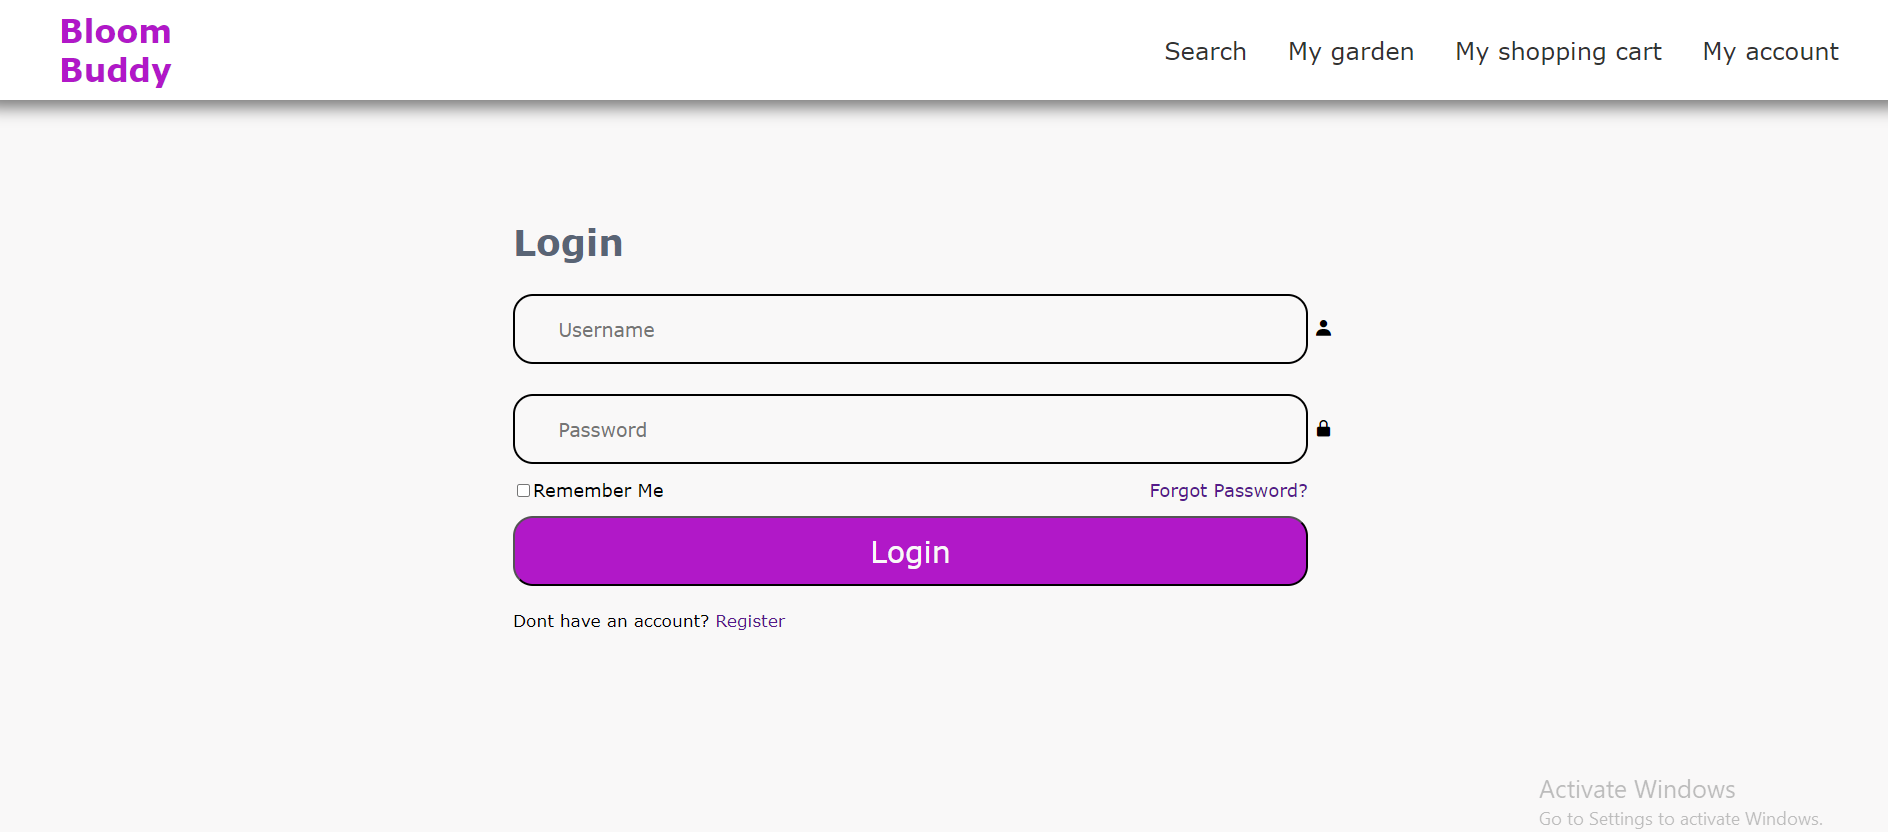
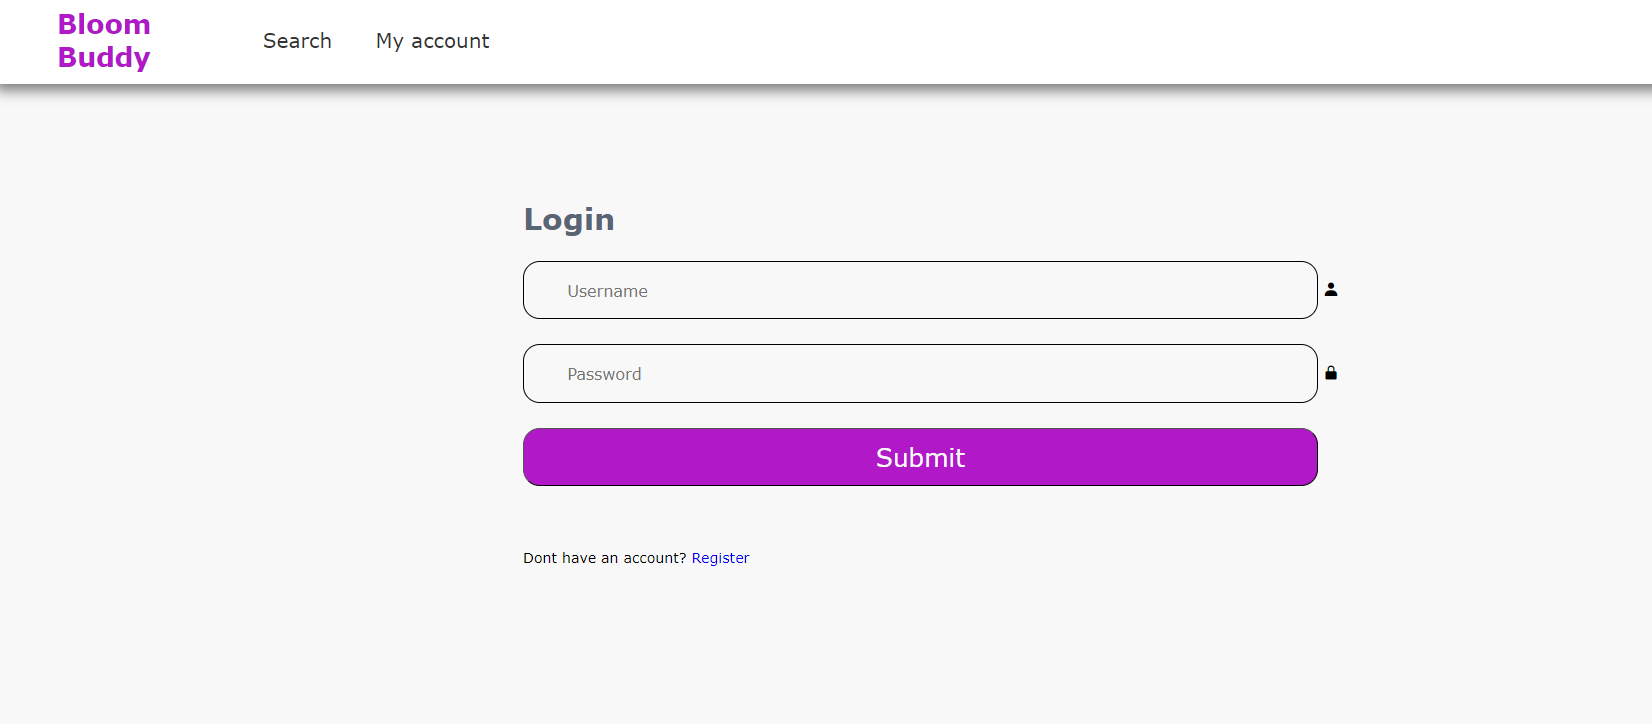
some bugs solved

diff --git a/Report.html b/Report.html
@@ -218,7 +218,6 @@
     <img src="resources/img/Report/login.png" alt="" style={width:50%}>
     <div>
       <p>This is the page used to log into an user's account. The required fields for logging in are the username and the password. There is also a checkbox for the user to specify that their credentials should be stored locally.</p>
-      <p>In case the user forgot their password, they can click on the "Forgot password" link, from where they can reset the forgotten password.</p>
       <p>In case the user is not regiestered, they can click on the "Register" link, which will redirect them to the signup page.</p>
     </div>
   </div>
@@ -231,13 +230,6 @@
     <p>This is the page used to create an user account. The required fields are the username, the fullname, email, the password and a field for confirming the password. The email and the username must uniquely identify a user, so you cannot create multiple accounts with the same email address or the same username.</p>
   </div>
 
-  <h4>
-    Password reset page
-  </h4>
-  <div class="interface-item">
-    <img src="resources/img/Report/passwordReset.png" alt="" style={width:50%} >
-    <p>This page can be used in order to reset your password, in case you forgot it. The required field is the email address associated with your account. After that, you will receive an email from where you can input your new password that you will use for logging in.</p>
-  </div>
 
   <h4>
     My account
@@ -249,11 +241,11 @@
   </div>
 
   <h4>
-    My garden
+    Vendor Home Page/My garden
   </h4>
   <div class="interface-item">
     <img src="resources/img/Report/myGarden.png" alt="" style={width:50%} >
-    <p>This page can be used to check the current status of your planted flowers, and information about the weather in the environment where the plants are growing. You can check each item's preferred environment and the current environment by clicking on their attached button.
+    <p>This page is accessible to the vendor, and can be used to check the current status of your planted flowers.  You can check each item's preferred environment by clicking on their attached button.
       The user can also see the products which they offer for sale on this page.
     </p>
   </div>
@@ -263,7 +255,7 @@
   </h4>
   <div class="interface-item">
     <img src="resources/img/Report/shoppingCart.png" alt="" style={width:50%} >
-    <p>You can use this page in order to finish your purchase. There, you can review the total payment for buying the added flowers.</p>
+    <p>You can use this page in order to finish your purchase. There, you can review the total payment for buying the added flowers. Once an order is placed, an email is sent to the email address of the user, which states the items purchased, and the total price to pay for them.</p>
   </div>
 
   <h4>
@@ -291,6 +283,25 @@
       </p>
     </div>
   </div>
+
+
+
+
+  <h4>
+    Administration Panel
+  </h4>
+
+  <div class="interface-item">
+    <img src="resources/img/Report/admin.png" alt="" style={width:50%}  >
+    <div>
+      <p>
+        This page is the home page, in the case when the autheticated user is the admin. This page contains 2 panels. One panel is responsible for managing the users that have created an account on the website, and the second panel is dedicated to managing the flowers which have been created on the website.
+      </p>
+    </div>
+  </div>
+
+
+
 
   <h3 id="software-interfaces"> 3.1 Software Interfaces  </h3>
   <h3 id="communication-interfaces"> 3.1 Communication Interfaces  </h3>
@@ -339,9 +350,33 @@
   <h3 id="backend-stage">
     4.3 Back-End Development stage
   </h3>
+  <h3 id="database">
+    4.3.1 Database
+  </h3>
   <p>
-  .
+  For this project, we have used MongoDB as the database. Unlike Oracle, Postgres or MySql, MongoDB is a non-relational database, which stores data as documents rather than tables.
+    We have decided to use this specific database manager, because we were interested in learning how to work with a new type of databases, as we have worked with relational databases at 3 other courses during the last semesters.
+    In order to access and use the database via node.js, we have used the Mongoose library.
+    In our MongoDB database, we have 3 collections: users/products and notifications. Their names are suggestive, regarding the data that is stored inside them.
   </p>
+  <figure>
+    <img src="resources/img/Report/backEnd/dataBase.png" alt="" style={width:50%}  >
+    <figcaption>Figure 4: An overview of the MongoDB database (the 'products' collection).  </figcaption>
+  </figure>
+
+
+
+  <h3 id="Controllers">
+    4.3.1 Controllers
+  </h3>
+  <p>
+    The application server, had
+  </p>
+  <figure>
+    <img src="resources/img/Report/backEnd/dataBase.png" alt="" style={width:50%}  >
+    <figcaption>Figure 4: An overview of the MongoDB database (the 'products' collection).  </figcaption>
+  </figure>
+
 
 </section>
 
@@ -357,19 +392,16 @@
   <h3>5.2 Sign Up</h3>
   <p>In order to sign up, a client who is not already a registered user must navigate to the Sign Up page and introduce the following details: email address, full name, username and password. Afterwards, they will receive an email asking them to confirm their address. </p>
 
-  <h3>5.3 Change password</h3>
-  <p>For security reasons, the database does not store the passwords of the users. Instead, the user who forgot their password and can no longer access their account must enter their email address in the input field and await an email that will provide them with a link to introduce a new password.</p>
-
-  <h3>5.4 Follow the development of flowers</h3>
+  <h3>5.3 Follow the development of flowers</h3>
   <p>In order to do this, the user who is looking to sell flowers must go to the 'My Garden' page on the website and check the section labelled ... </p>
 
-  <h3>5.5 Buy flowers</h3>
+  <h3>5.4 Buy flowers</h3>
   <p>In order to buy a flower, the logged in user must first select the flower that they wish to buy, then click the 'Add to cart ' button on the product page, or the shopping cart item next to the flower. They will then be redirected to their shopping, where they will be able to see all the products they have added to their basket. There, they will be able to complete their order and will be redirected to the payment page.</p>
 
-  <h3>5.6 Sell flowers</h3>
+  <h3>5.5 Sell flowers</h3>
   <p>In order to sell a flower, the logged in user must go to the specific form page and input the required information about the product he's about to auction. These range from basic properties like name, price and description to more specific information, such as optimal conditions for growing or indexing data, such as season of plants. Upon clicling submit, the user will be redirected to the product page of the plant, displayed for sale. </p>
 
-  <h3>5.7 Receive notifications about your flowers</h3>
+  <h3>5.6 Receive notifications about your flowers</h3>
   <p>
     When the specific flower species is determined to be ready for cultivation and sale, the user will receive notifications regarding the need to cultivate the flowers.
     Notifications about the orders put for flowers sold by the user are also being sent via email, and can be viewed directly on the website.

diff --git a/login+register/login_register_logic.js b/login+register/login_register_logic.js
@@ -39,8 +39,9 @@ async function loginButtonPressed(event){
   localStorage.setItem( "globalUsername" , payloadObject.username );
   localStorage.setItem( "globalFullname" , payloadObject.fullname );
   localStorage.setItem( "globalEmail" , payloadObject.email );
+  globalRole = payloadObject.role;
 
-  location.href = '/index.html';
+  gotoPage( generateURL('home') );
   //location.reload();
 }
 

diff --git a/login+register/login.html b/login+register/login.html
@@ -71,10 +71,6 @@
       <i class='bx bxs-lock-alt' ></i>
     </div>
     <div class = "remember-forgot">
-      <label>
-        <input type="checkbox">Remember Me
-      </label>
-      <a href="../ChangePassword.html">Forgot Password?</a>
     </div>
     <input type="submit" class="btn" id="submit-button">
     <script>

diff --git a/resources/css/search.css b/resources/css/search.css
@@ -43,8 +43,8 @@
 
 
 @media only screen and (min-width: 1301px){
-  .searchBar .search-form button{
-    width: 10%;
+  .searchBar .search-form .submit-button{
+    width: 20%;
     height: 70px;
     font-size: 24px;
     border-radius: 32px;
